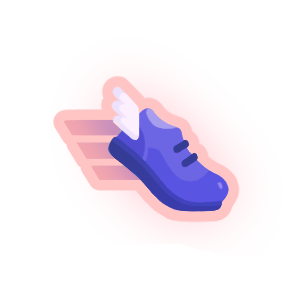
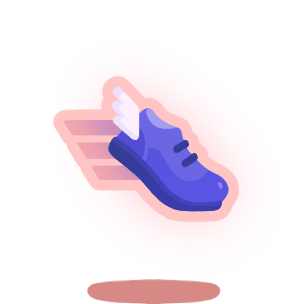
fixes animations

Changed region(s): [[0.2656, 0.9178, 0.7377, 1.0]]

diff --git a/src/scripts/components/gameplayUI.js b/src/scripts/components/gameplayUI.js
@@ -3,8 +3,8 @@ export class GameplayUI
     constructor(scene, gameWidth){
         this.scene = scene;
         this.gameWidth = gameWidth;
-        this.redBarSize = [.2,.3,.45,.6,.75];
-        this.currentThreshold = .2;
+        this.redBarSize = 70;
+        this.currentThreshold = .364;
     }
 
     create(){
@@ -28,7 +28,7 @@ export class GameplayUI
         // Progress Bar
         this.progressBar = this.scene.rexUI.add.slider({
             x: 560,
-            y: 320,
+            y: 323,
             width: 780,
             height: 50,
             orientation: 'x',
@@ -40,7 +40,33 @@ export class GameplayUI
         }).layout();
         this.progressBar.value = this.scene.data.get('initialSpeed')/this.scene.data.get('maxSpeed');
 
-        this.redBar = this.scene.add.rectangle(170, 300, 144,50, 0xE05243).setOrigin(0).setDepth(5.1);
+        let barHeight = 40
+        this.barWidth = 300
+        let barX = 165;
+        let barY = 305;
+        this.redBar = this.scene.add.rectangle(barX, barY, 700, barHeight, 0xE05243).setOrigin(0).setDepth(5.1);
+
+        // Crear un objeto gráfico para la máscara
+        let maskShape = this.scene.make.graphics();
+        maskShape.fillStyle(0xffffff);
+
+        // Definir la forma de la máscara (diagonal en este caso)
+        maskShape.beginPath();
+        maskShape.moveTo(barX, barY); // Inicio de la máscara en la esquina superior izquierda de la barra
+        
+        maskShape.lineTo(barX + this.barWidth, barY ); // Punto en la esquina inferior derecha
+        maskShape.lineTo(barX + this.barWidth - 20, barY + barHeight); // Punto a la  derecha pero no al final
+        maskShape.lineTo(barX, barY + barHeight); // Cerrar la forma en la esquina inferior izquierda
+        maskShape.closePath();
+        maskShape.fillPath();
+
+        // Crear una máscara a partir de la forma gráfica
+        let mask = maskShape.createGeometryMask();
+
+        // Aplicar la máscara a la barra
+        this.redBar.setMask(mask);
+
+
 
         this.hearts = this.scene.add.group();
 
@@ -117,8 +143,27 @@ export class GameplayUI
     }
 
     updateRedBar(currentZone) {
-        this.currentThreshold = this.redBarSize[currentZone]
-        this.redBar.width = this.progressBar.width * this.currentThreshold;
+        this.currentThreshold += 0.091
+        this.barWidth += this.redBarSize
+        let maskShape = this.scene.make.graphics();
+        maskShape.fillStyle(0xffffff);
+
+        // Definir la forma de la máscara (diagonal en este caso)
+        maskShape.beginPath();
+        maskShape.moveTo(165, 305); 
+        
+        maskShape.lineTo(165+this.barWidth, 305); 
+        maskShape.lineTo(165+this.barWidth-20, 345); 
+        maskShape.lineTo(165, 345); 
+        maskShape.closePath();
+        maskShape.fillPath();
+
+        // Crear una máscara a partir de la forma gráfica
+        let mask = maskShape.createGeometryMask();
+
+        // Aplicar la máscara a la barra
+        this.redBar.setMask(mask);
+        
     }
 
     showMessage(x, y){

diff --git a/src/scripts/scenes/mainScene.js b/src/scripts/scenes/mainScene.js
@@ -25,6 +25,7 @@ export class MainScene extends Phaser.Scene{
         this.load.atlas('clouds', './src/images/clouds.png', './src/images/clouds.json');
         this.load.atlas('inputs', './src/images/inputs.png', './src/images/inputs.json');
         this.load.atlas('UIgame', './src/images/UIgame.png', './src/images/UIgame.json');
+        this.load.atlas('people', './src/images/people.png', './src/images/people.json');
         //powerups
         this.load.image('corazon', './src/images/power-up-corazon.png');
         this.load.image('zapatilla', './src/images/power-up-zapatilla.png');
@@ -32,6 +33,7 @@ export class MainScene extends Phaser.Scene{
         this.load.spritesheet('playerIdle', './src/images/playerIdle.png', {frameWidth: 700, frameHeight: 500});
         this.load.spritesheet('playerRun', './src/images/player.png', {frameWidth: 700, frameHeight: 500});
         this.load.spritesheet('playerStun', './src/images/playerStun.png', {frameWidth: 700, frameHeight: 500});
+        this.load.spritesheet('playerHit', './src/images/playerHit.png', {frameWidth: 700, frameHeight: 500});
         this.load.image('playerJump', './src/images/playerJump.png');
         this.load.image('playerReady', './src/images/playerReady.png');
         this.load.image('playerSet', './src/images/playerSet.png');
@@ -251,7 +253,7 @@ export class MainScene extends Phaser.Scene{
 
     mapSpeedToRange(speed) {
         const minSpeed = 0;
-        const maxSpeed = 864;
+        const maxSpeed = 1030;
         const minRange = 0.1;
         const maxRange = 0.6;
         
@@ -297,10 +299,11 @@ export class MainScene extends Phaser.Scene{
     startLoseTimer(){
         // Si ya estamos rastreando la colisión, no hacer nada
         if (this.loseTimer !== null) return;
-    
+        this.player.playerRunTexture = 'playerStun'
+        this.player.playerRunAnimation = 'stun'
         // Si no estamos rastreando la colisión, iniciar el temporizador
         this.loseTimer = this.time.addEvent({
-            delay: 3000, // Duración del temporizador en milisegundos (5 segundos)
+            delay: 1500, // Duración del temporizador en milisegundos (5 segundos)
             callback: () => {
                 this.gameState = 'game_over';
             },
@@ -309,6 +312,8 @@ export class MainScene extends Phaser.Scene{
     }
 
     stopLoseTimer() {
+        this.player.playerRunTexture = 'playerRun'
+        this.player.playerRunAnimation = 'run'
         this.loseTimer?.remove();
         this.loseTimer = null;
     }

diff --git a/src/scripts/managers/backgroundManager.js b/src/scripts/managers/backgroundManager.js
@@ -12,7 +12,7 @@ export class BackgroundManager
     create() {
         this.scene.add.image(0,0,'background').setOrigin(0).setScale(.72).setDepth(0);
         this.scene.add.image(0,170,'bg','gradas.png').setOrigin(0).setScale(.72).setDepth(0.1);
-        this.seats = this.scene.add.tileSprite(0,235,0,0,'bg','asientos.png').setOrigin(0).setScale(.72).setDepth(0.2);
+        //this.seats = this.scene.add.tileSprite(0,235,0,0,'bg','asientos.png').setOrigin(0).setScale(.72).setDepth(0.2);
         
         this.scene.add.image(0,this.gameWidth-570,'bg','muro.png').setOrigin(0).setScale(.72).setDepth(0.3);
         this.logo = this.scene.add.tileSprite(0,this.gameWidth-515,0,0,'bg','logo.png').setOrigin(0).setScale(.72).setDepth(0.4);
@@ -30,16 +30,42 @@ export class BackgroundManager
         let cloud4 = this.scene.add.image(1500, -10, 'clouds', '2.png').setOrigin(.5).setScale(.72);
         this.clouds.push(cloud4);
 
+
+        // Create an array to hold the crowd images
+        this.crowdImages = [];
+
+        // Initial positions for the images
+        let positions = [0, 1100, 2200, 3300]; // Adjust based on your image width and desired spacing
+
+        // Create image sprites and add them to the array
+        for (let i = 0; i < 4; i++) {
+            let image = this.scene.add.sprite(positions[i], 335, 'people', `tapatlon_publico_0${i+1}`+'.png').setScale(.72).setDepth(0.2).setOrigin(0,.5);
+            this.crowdImages.push(image);
+        }
+
+        
+
     }
 
     update(dt) {
         
         this.extra.tilePositionX += this.horizontalSpeed * dt * 1.9 ;
-        this.seats.tilePositionX += this.horizontalSpeed * dt* 1.9 *.8  ;
+        //this.seats.tilePositionX += this.horizontalSpeed * dt* 1.9 *.8  ;
         this.logo.tilePositionX += this.horizontalSpeed * dt* 1.9 ;
+        this.crowdImages.forEach(image => {
+            image.x -=  this.horizontalSpeed * dt*.8 ;
 
+            // If the image moves off-screen to the left, reposition it to the right
+            if (image.x < -image.width) {
+                let maxX = Math.max(...this.crowdImages.map(img => img.x));
+                // Reposiciona la imagen fuera de la pantalla a la derecha de la más a la derecha
+                image.x = maxX + image.width;
+            }
+        });
         this.cloudsUpdate(dt);
     }
+
+   
 
     cloudsUpdate(dt){
         for(let i = 0; i < this.clouds.length; i++){

diff --git a/src/scripts/components/player.js b/src/scripts/components/player.js
@@ -1,6 +1,8 @@
 export class Player extends Phaser.Physics.Arcade.Sprite {
     constructor(scene, x, y) {
       super(scene, x, y, 'playerRun');
+      this.playerRunAnimation = 'run'
+      this.playerRunTexture = 'playerRun'
       this.isStun = false
       this.setDepth(3)
       scene.add.existing(this);
@@ -30,12 +32,19 @@ export class Player extends Phaser.Physics.Arcade.Sprite {
                 key: 'stun',
                 frames: this.scene.anims.generateFrameNumbers('playerStun', { start: 0, end: 3, first: 0 }), // Frames del 0 al 9
                 frameRate: this.baseFrameRate, // Velocidad de la animación
+                repeat: -1 
+            });
+            scene.anims.create({
+                key: 'hit',
+                frames: this.scene.anims.generateFrameNumbers('playerHit', { start: 0, end: 2, first: 0 }), // Frames del 0 al 9
+                frameRate: this.baseFrameRate, // Velocidad de la animación
                 repeat: 1 
             });
 
+
         }
         this.on('animationcomplete', function (animation, frame) {
-            if (animation.key === 'stun') {
+            if (animation.key === 'hit') {
                 this.isStun = false
             }
         });
@@ -58,9 +67,9 @@ export class Player extends Phaser.Physics.Arcade.Sprite {
         if(!this.isStun){
             if(this.body.touching.down){
                 this.isGrounded = true
-                if (this.texture.key !== 'playerRun') {
-                    this.setTexture('playerRun');
-                    this.play('run');
+                if (this.texture.key !== this.playerRunTexture) {
+                    this.setTexture(this.playerRunTexture);
+                    this.play(this.playerRunAnimation);
                     this.scene.uiScene.audioManager.aterrizaje.play()
                   }
             }else{
@@ -75,8 +84,8 @@ export class Player extends Phaser.Physics.Arcade.Sprite {
     }
     setStun(){
         this.isStun= true
-        this.setTexture('playerStun');
-        this.play('stun');
+        this.setTexture('playerHit');
+        this.play('hit');
     }
 
     fixPlayer(){

diff --git a/src/scripts/managers/powerUpsManager.js b/src/scripts/managers/powerUpsManager.js
@@ -18,7 +18,7 @@ export class PowerUpsManager
     }
 
     create(){
-        let sprite = this.scene.physics.add.sprite(0, 0, 'square').setOrigin(0).setScale( .5).setVisible(false).setDepth(5);
+        let sprite = this.scene.physics.add.sprite(0, 0, 'corazon').setOrigin(0).setScale( .5).setVisible(false).setDepth(5).setSize(100,150).setOffset(120, 100);
         sprite.body.allowGravity = false;
         this.powerUp = new PowerUp(sprite);
 
@@ -49,8 +49,8 @@ export class PowerUpsManager
     activePowerUp() {
         this.powerUp.sprite.enableBody();
         let isObstacle = this.scene.obstacleManager.checkActiveObstacles();
-        let posY = isObstacle ? this.gameWidth-340 : this.gameWidth-220;
-        this.powerUp.sprite.setPosition(this.gameWidth, posY).setVisible(true);
+        let posX = isObstacle ? this.gameWidth+40 : this.gameWidth;
+        this.powerUp.sprite.setPosition(posX, this.gameWidth-390).setVisible(true);
         this.powerUp.status = 'active';
 
         let rand = Phaser.Math.Between(0, 1);
